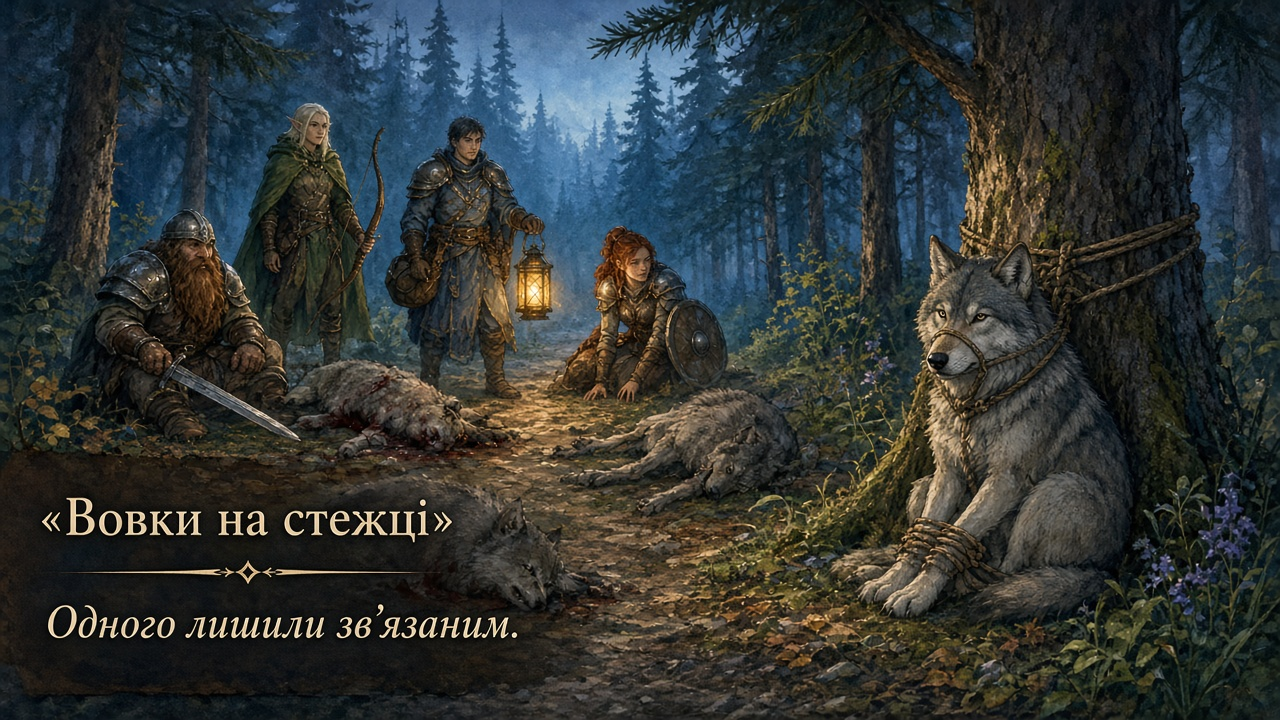
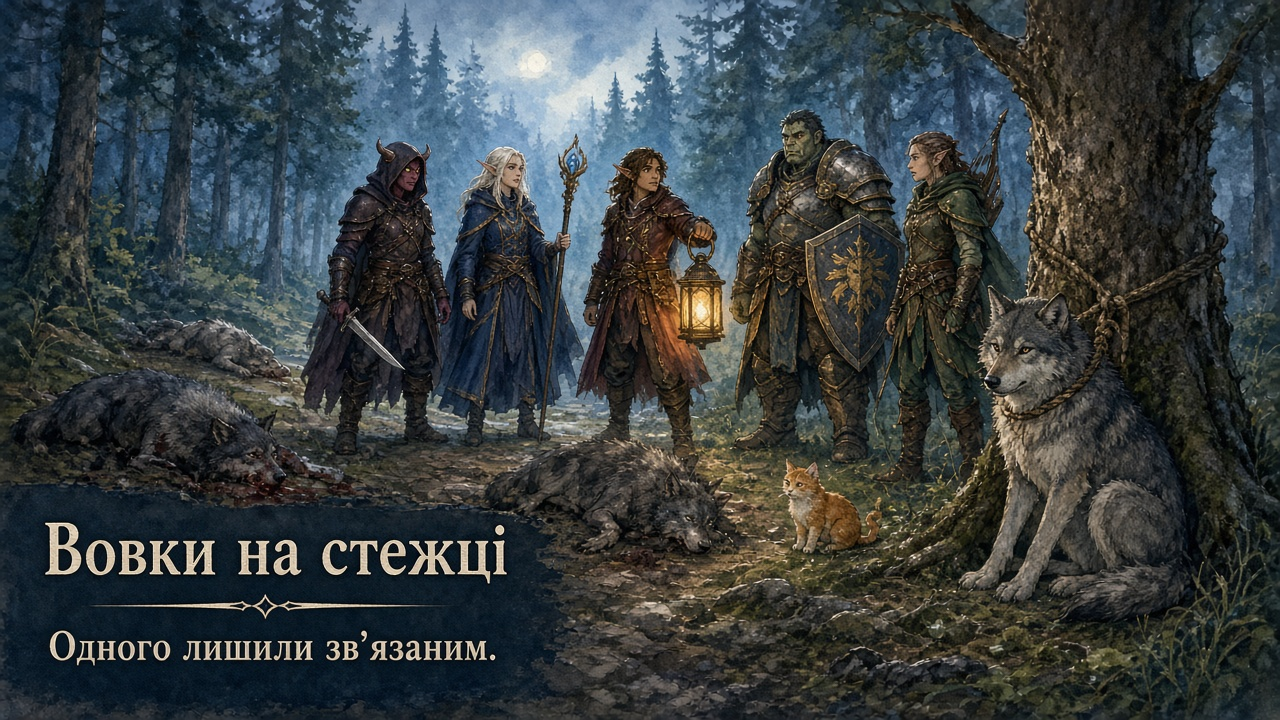
Regenerate forest trail without gnome/dwarf
Replace 13_forest_trail with a party-only cast (five PCs + tied wolf);
keep the rejected invent-a-gnome frame for comparison.

diff --git a/docs/act1-scene-visuals-checklist.md b/docs/act1-scene-visuals-checklist.md
@@ -195,7 +195,8 @@ One image per row unless you say “skip” or “merge.” Slugs are for filena
 | `10_mill_rat_problem` | `art/act1/10_mill_rat_problem.jpg` | Kept (v1) — pick later |
 | `10_mill_rat_problem` (rear-bite accent) | `art/act1/10_mill_rat_problem_ass_bite.jpg` | Kept — pick later |
 | `12_forest_edge_closing` | `art/act1/12_forest_edge_closing.jpg` | **Approved** |
-| `13_forest_trail` | `art/act1/13_forest_trail.jpg` | Awaiting review |
+| `13_forest_trail` | `art/act1/13_forest_trail.jpg` | Awaiting review (regen: no gnome/dwarf; party-only cast) |
+| `13_forest_trail` (rejected) | `art/act1/13_forest_trail_gnome_reject.jpg` | Rejected — invented gnome/dwarf |
 
 ---
 
